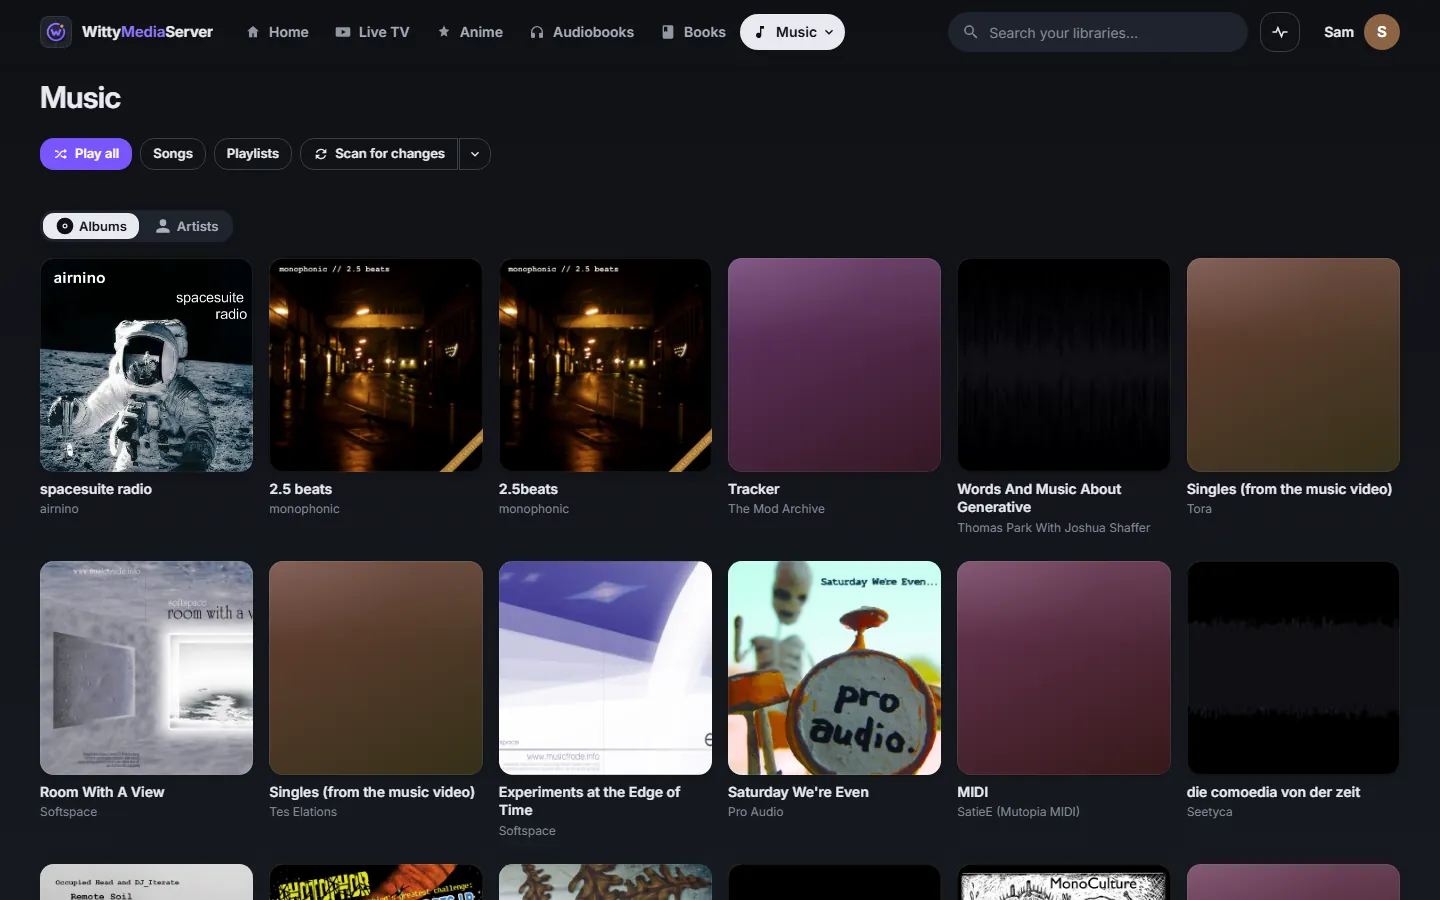
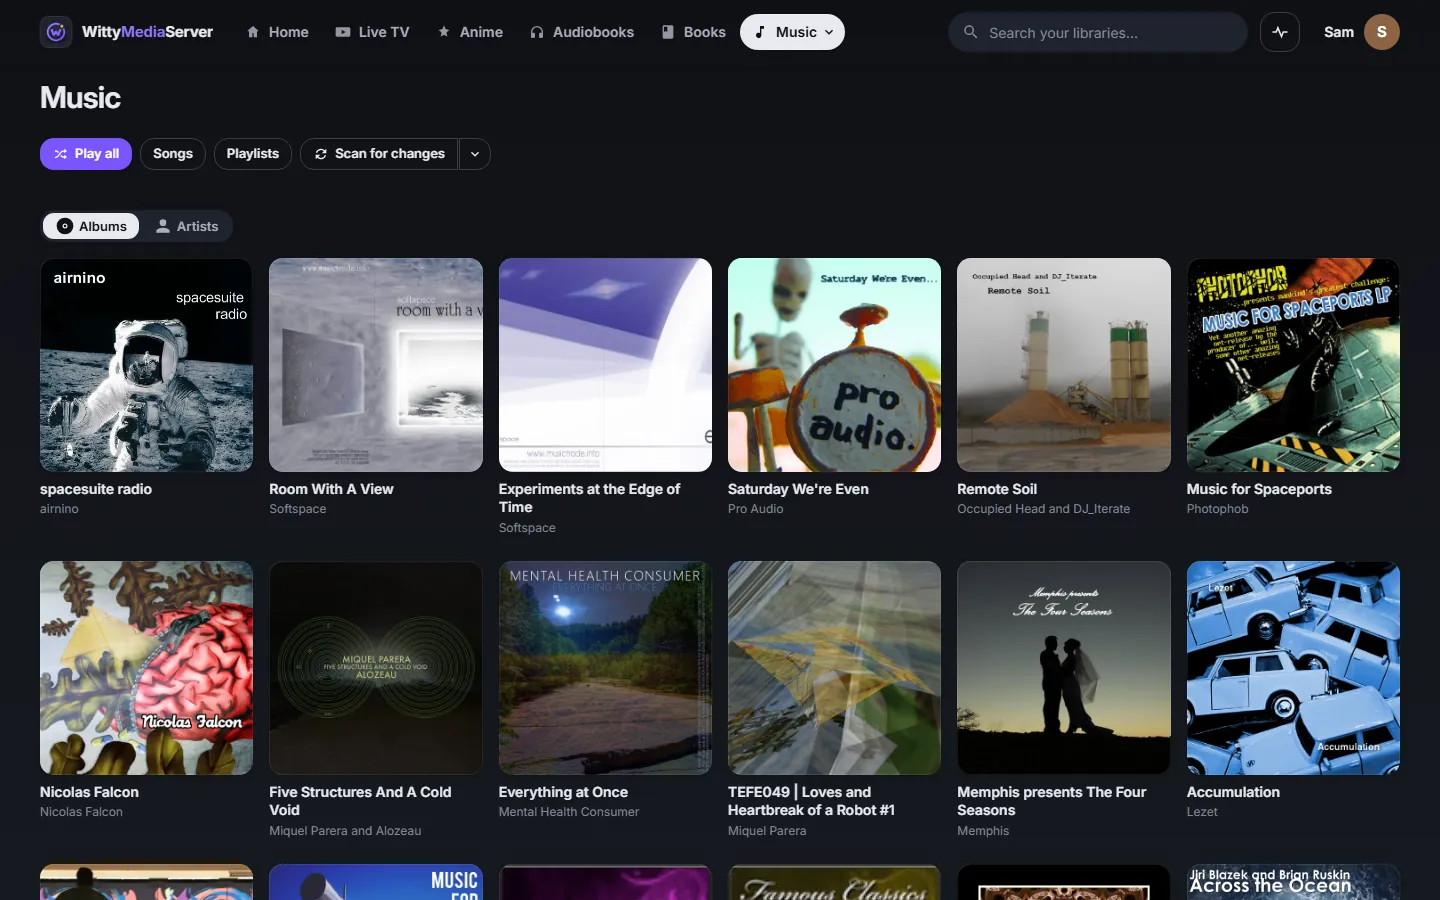
The Music picture shows only albums with their own cover art (#5)
The test server's Music library reads only the WittyDemoMedia albums with real covers:
tools/shots/music-library.mjs leaves out the ones with no picture or only a waveform, two
with unsuitable covers, and two whose tags split them into several albums
(wittywilla/WittyMediaServer#355). The Music picture is retaken and credited.

diff --git a/tools/shots/README.md b/tools/shots/README.md
@@ -20,6 +20,12 @@ What you need: Node.js 20 or newer, Python 3 with Pillow, and a Playwright insta
    WMS_PASSWORD=... node prep.mjs http://127.0.0.1:19490
    ```
 
+   Then narrow the Music library to albums with real cover art. `music-library.mjs` leaves out the albums whose only picture is a waveform or nothing at all (the Mutopia MIDI, the tracker collection, the music-video singles and a few more), and the ones whose tags split them into several albums. Every album the pictures show then has its own cover:
+
+   ```bash
+   WMS_PASSWORD=... node music-library.mjs
+   ```
+
 3. **Sync the look.** From this repository, copy the release's themes and experiences into `content/look.json`:
 
    ```bash
